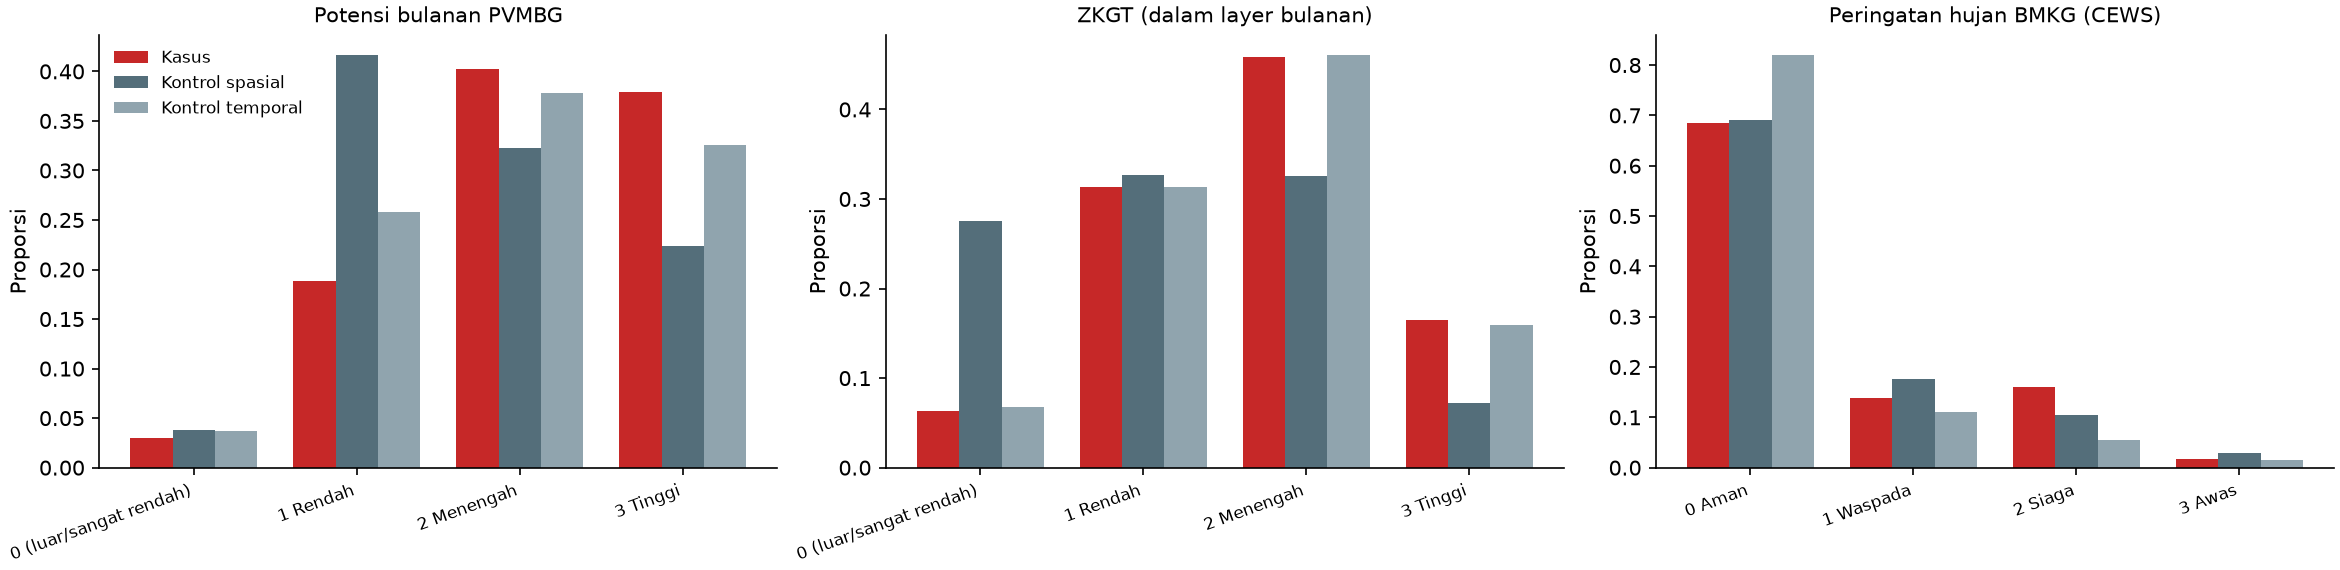
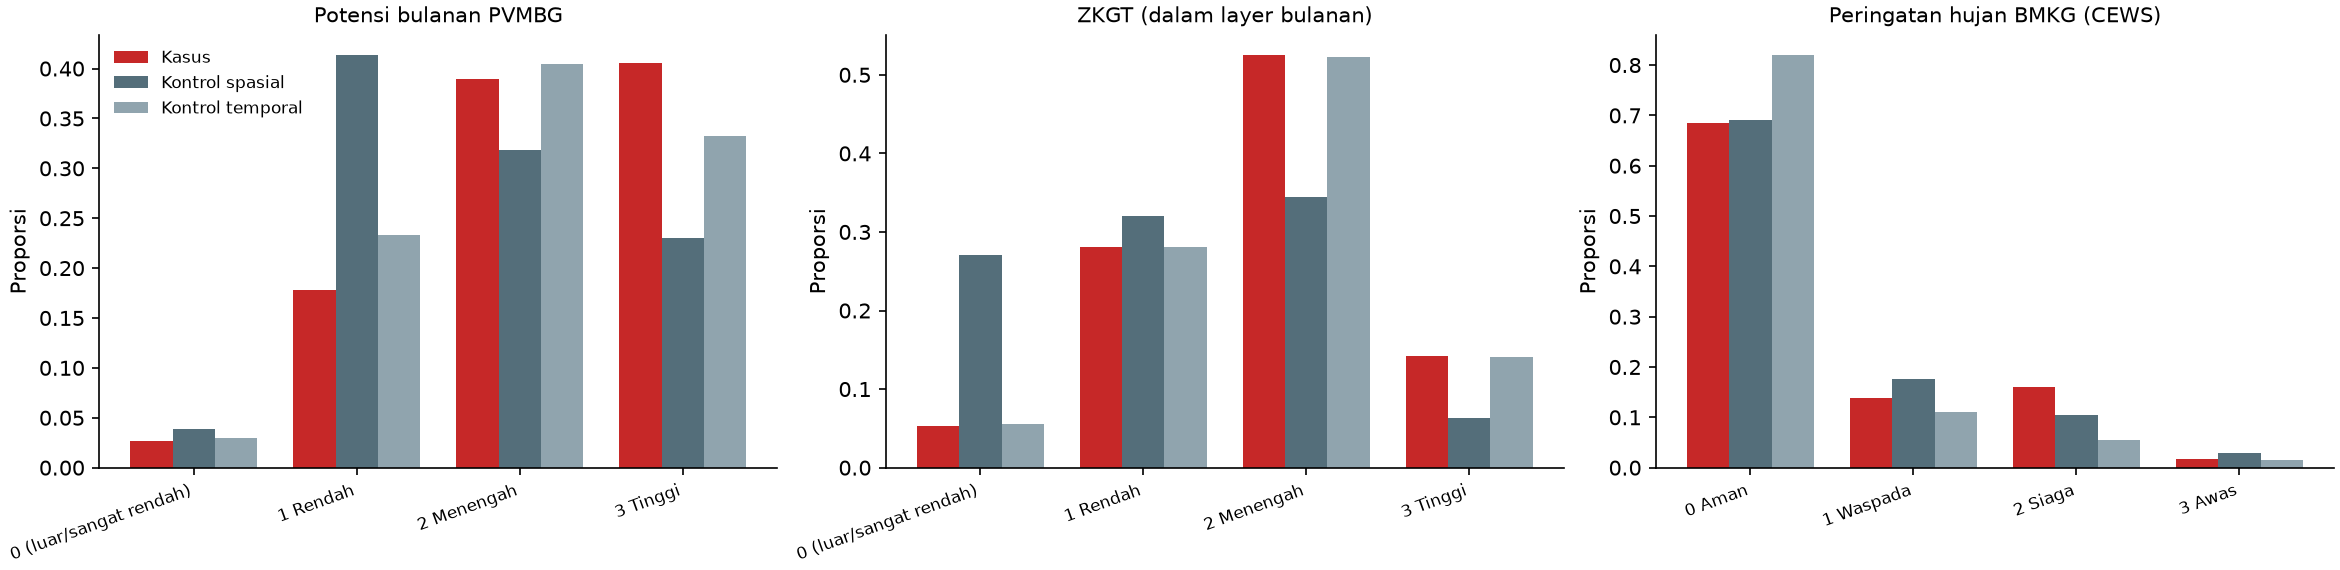
fix(research): use the containing PVMBG polygon and recompute RQ-L1
02_produk_resmi.py took the first GetFeatureInfo polygon, which changed
the potential class of 584 of 8,370 sampled points (7.0%). The sample is
rebuilt from the same cache with the point-in-polygon reader; points,
months, and seeds are unchanged. Main results: PVMBG spatial AUC 0.631
to 0.642, temporal 0.560 to 0.565, ZKGT spatial 0.653 to 0.664, L1c
-0.023 to -0.021. CEWS and EDuMaP are unchanged and no conclusion
changes. The protocol records the correction and both sets of values
as an implementation note.

diff --git a/research/02_produk_resmi.py b/research/02_produk_resmi.py
@@ -26,6 +26,7 @@ from datetime import date
 import pandas as pd
 
 from sigap_riset import cews
+from sigap_riset.geo import contains_point
 from sigap_riset.http import Client
 from sigap_riset.paths import DATA
 from sigap_riset.waktu import dasarian, dasarian_index, month_index
@@ -86,19 +87,29 @@ def is_feature_info(text: str) -> bool:
     return text.lstrip().startswith('{') or BROKEN_LAYER in text
 
 
-def parse_feature_info(text: str | None) -> dict | None:
+def parse_feature_info(text: str | None, lat: float | None = None, lon: float | None = None) -> dict | None:
     """Atribut poligon di titik; None bila layer bulan itu tidak ada (404) atau
-    rusak (layer 2025-12 tidak punya kolom zona_perki, jadi style-nya ditolak)."""
+    rusak (layer 2025-12 tidak punya kolom zona_perki, jadi style-nya ditolak).
+
+    GetFeatureInfo memeriksa piksel tengah beserta toleransi beberapa piksel, jadi
+    titik di dekat batas zona mengembalikan 2–3 poligon dalam urutan acak. Yang
+    dipakai adalah poligon yang geometrinya memuat titik (lat, lon); poligon
+    pertama hanya dipakai bila tidak ada yang memuat titik. Versi sebelum 1 Okt
+    2026 selalu memakai poligon pertama (PROTOKOL.md, catatan penerapan 1 Okt 2026)."""
     if text is None or BROKEN_LAYER in text:
         return None
     features = json.loads(text).get('features') or []
-    props = features[0]['properties'] if features else {}
-    return {'ada_poligon': bool(features), 'potensi': props.get('zona_perki'), 'zkgt': props.get('unsur')}
+    feature = features[0] if features else None
+    if lat is not None and lon is not None:
+        feature = next((f for f in features if contains_point(f.get('geometry'), lat, lon)), feature)
+    props = feature['properties'] if feature else {}
+    return {'ada_poligon': bool(features), 'potensi': props.get('zona_perki'), 'zkgt': props.get('unsur'), 'n_poligon': len(features)}
 
 
 def read_pvmbg(client: Client, year: int, month: int, lat: float, lon: float) -> dict | None:
-    url = feature_info_url(year, month, round(lat, 5), round(lon, 5))
-    return parse_feature_info(client.text(url, valid=is_feature_info))
+    lat, lon = round(lat, 5), round(lon, 5)
+    url = feature_info_url(year, month, lat, lon)
+    return parse_feature_info(client.text(url, valid=is_feature_info), lat, lon)
 
 
 def layer_status(client: Client) -> dict[tuple[int, int], str]:
@@ -144,7 +155,7 @@ def sample_pvmbg(cases: pd.DataFrame) -> pd.DataFrame:
     results = []
     started = time.monotonic()
     for i, row in enumerate(plan.itertuples(), 1):
-        results.append(read_pvmbg(client, row.tahun, row.bulan, row.lat, row.lon) or {'ada_poligon': False, 'potensi': None, 'zkgt': None})
+        results.append(read_pvmbg(client, row.tahun, row.bulan, row.lat, row.lon) or {'ada_poligon': False, 'potensi': None, 'zkgt': None, 'n_poligon': 0})
         if i % 250 == 0:
             rate = client.network_requests / max(time.monotonic() - started, 1)
             remaining = (len(plan) - i) / rate / 60 if rate else 0

diff --git a/research/tests/test_produk_resmi.py b/research/tests/test_produk_resmi.py
@@ -27,17 +27,34 @@ BROKEN_LAYER_REPLY = (
 OTHER_ERROR = '<?xml version="1.0"?><ServiceExceptionReport><ServiceException>java.io.IOException</ServiceException></ServiceExceptionReport>'
 
 
-def feature_collection(*props: dict) -> str:
-    return json.dumps({'type': 'FeatureCollection', 'features': [{'type': 'Feature', 'properties': p} for p in props]})
+def feature_collection(*props: dict, geometries: list | None = None) -> str:
+    geometries = geometries or [None] * len(props)
+    return json.dumps({'type': 'FeatureCollection',
+                       'features': [{'type': 'Feature', 'properties': p, 'geometry': g} for p, g in zip(props, geometries)]})
+
+
+def square(west: float, south: float, east: float, north: float) -> dict:
+    return {'type': 'MultiPolygon', 'coordinates': [[[[west, south], [east, south], [east, north], [west, north], [west, south]]]]}
 
 
 class TestFeatureInfo(unittest.TestCase):
-    def test_poligon_pertama_dipakai(self):
+    def test_tanpa_geometri_poligon_pertama_dipakai(self):
         text = feature_collection({'zona_perki': 'Tinggi', 'unsur': 'Menengah'}, {'zona_perki': 'Menengah', 'unsur': 'Rendah'})
-        self.assertEqual(produk.parse_feature_info(text), {'ada_poligon': True, 'potensi': 'Tinggi', 'zkgt': 'Menengah'})
+        self.assertEqual(produk.parse_feature_info(text, -7.3, 109.6),
+                         {'ada_poligon': True, 'potensi': 'Tinggi', 'zkgt': 'Menengah', 'n_poligon': 2})
+
+    def test_poligon_yang_memuat_titik_dipakai(self):
+        # Dua zona bersebelahan; titik ada di zona kedua (kasus batas yang dulu salah dibaca).
+        text = feature_collection({'zona_perki': 'Tinggi', 'unsur': 'Tinggi'}, {'zona_perki': 'Menengah', 'unsur': 'Menengah'},
+                                  geometries=[square(109.6555, -7.356, 109.66, -7.35), square(109.65, -7.356, 109.6555, -7.35)])
+        self.assertEqual(produk.parse_feature_info(text, -7.353, 109.655)['potensi'], 'Menengah')
+        self.assertEqual(produk.parse_feature_info(text, -7.353, 109.657)['potensi'], 'Tinggi')
+        # Tanpa titik: poligon pertama, seperti pembaca versi lama.
+        self.assertEqual(produk.parse_feature_info(text)['potensi'], 'Tinggi')
 
     def test_di_luar_poligon(self):
-        self.assertEqual(produk.parse_feature_info(feature_collection()), {'ada_poligon': False, 'potensi': None, 'zkgt': None})
+        self.assertEqual(produk.parse_feature_info(feature_collection(), -7.3, 109.6),
+                         {'ada_poligon': False, 'potensi': None, 'zkgt': None, 'n_poligon': 0})
 
     def test_layer_tidak_ada_atau_rusak(self):
         self.assertIsNone(produk.parse_feature_info(None))

diff --git a/research/tests/test_geo.py b/research/tests/test_geo.py
@@ -1,0 +1,37 @@
+"""Uji titik di dalam poligon (dipakai untuk memilih poligon GetFeatureInfo PVMBG).
+
+Jalankan dari root repo: research/.venv/Scripts/python -m unittest discover research/tests
+"""
+
+import sys
+import unittest
+from pathlib import Path
+
+sys.path.insert(0, str(Path(__file__).resolve().parent.parent))
+
+from sigap_riset.geo import contains_point  # noqa: E402
+
+
+def ring(west, south, east, north):
+    return [[west, south], [east, south], [east, north], [west, north], [west, south]]
+
+
+class TestContainsPoint(unittest.TestCase):
+    def test_lubang_dianggap_di_luar(self):
+        donut = {'type': 'Polygon', 'coordinates': [ring(0, 0, 10, 10), ring(4, 4, 6, 6)]}
+        self.assertTrue(contains_point(donut, 2, 2))
+        self.assertFalse(contains_point(donut, 5, 5))
+        self.assertFalse(contains_point(donut, 5, 11))
+
+    def test_multipoligon(self):
+        islands = {'type': 'MultiPolygon', 'coordinates': [[ring(0, 0, 1, 1)], [ring(5, 5, 6, 6)]]}
+        self.assertTrue(contains_point(islands, 5.5, 5.5))
+        self.assertFalse(contains_point(islands, 3, 3))
+
+    def test_tanpa_geometri(self):
+        self.assertFalse(contains_point(None, 0, 0))
+        self.assertFalse(contains_point({'type': 'Point', 'coordinates': [0, 0]}, 0, 0))
+
+
+if __name__ == '__main__':
+    unittest.main()

diff --git a/research/sigap_riset/geo.py b/research/sigap_riset/geo.py
@@ -8,3 +8,31 @@ def haversine_km(lat1, lon1, lat2, lon2):
     lat1, lon1, lat2, lon2 = map(np.radians, (lat1, lon1, lat2, lon2))
     a = np.sin((lat2 - lat1) / 2) ** 2 + np.cos(lat1) * np.cos(lat2) * np.sin((lon2 - lon1) / 2) ** 2
     return 2 * EARTH_RADIUS_KM * np.arcsin(np.sqrt(a))
+
+
+def contains_point(geometry: dict | None, lat: float, lon: float) -> bool:
+    """Titik di dalam Polygon/MultiPolygon GeoJSON (koordinat [lon, lat]).
+
+    Aturan genap-ganjil dihitung atas semua ring satu poligon, jadi titik di dalam
+    lubang dianggap di luar. Sama dengan containsPoint di recorder/src/lib/geo.js."""
+    if not geometry:
+        return False
+    if geometry.get('type') == 'MultiPolygon':
+        polygons = geometry['coordinates']
+    elif geometry.get('type') == 'Polygon':
+        polygons = [geometry['coordinates']]
+    else:
+        return False
+    for rings in polygons:
+        inside = False
+        for ring in rings:
+            j = len(ring) - 1
+            for i in range(len(ring)):
+                xi, yi = ring[i][0], ring[i][1]
+                xj, yj = ring[j][0], ring[j][1]
+                if (yi > lat) != (yj > lat) and lon < (xj - xi) * (lat - yi) / (yj - yi) + xi:
+                    inside = not inside
+                j = i
+        if inside:
+            return True
+    return False

diff --git a/research/results/rq_l1_ringkasan.md b/research/results/rq_l1_ringkasan.md
@@ -1,6 +1,6 @@
 # Hasil RQ-L1 — skill produk peringatan longsor resmi
 
-Dihitung 2026-09-27 17:47 UTC dari cache data (diambil 2026-09-27 s.d. 2026-09-27). Protokol: `research/PROTOKOL.md`.
+Dihitung 2026-10-01 00:57 UTC dari cache data (diambil 2026-09-27 s.d. 2026-09-27). Protokol: `research/PROTOKOL.md`.
 Bootstrap klaster 2000 kali. Layer PVMBG yang tidak ada/rusak: 2023-04, 2023-09, 2023-10, 2023-11, 2024-08, 2025-11, 2025-12.
 Bulan bercakupan tidak lengkap (sensitivitas): 2022-12 (median cakupan 1.00).
 Presisi tanggal kasus PVMBG: {'hari': 280, 'bulan': 23, 'tahun': 7}. Analisis utama PVMBG memakai presisi hari dan bulan; CEWS hanya presisi hari (PROTOKOL.md v1.1).
@@ -8,34 +8,34 @@ Dasarian CEWS tanpa produk di sumber BMKG (dikeluarkan): 2022-09 das 2, 2022-09 
 
 | Produk | Analisis | Kontrol | n kasus | AUC berpasangan [CI 95%] | AUC gabungan | POD≥2 | POFD≥2 | TSS≥2 [CI 95%] | POD=3 | POFD=3 |
 |---|---|---|---|---|---|---|---|---|---|---|
-| Potensi bulanan PVMBG | utama | spasial (provinsi) | 303 | 0.631 [0.603, 0.659] | 0.631 | 0.78 | 0.55 | 0.236 [0.188, 0.283] | 0.38 | 0.22 |
-| Potensi bulanan PVMBG | utama | temporal | 303 | 0.560 [0.534, 0.587] | 0.545 | 0.78 | 0.70 | 0.078 [0.043, 0.117] | 0.38 | 0.33 |
-| ZKGT (dalam layer bulanan) | utama | spasial (provinsi) | 303 | 0.653 [0.627, 0.682] | 0.656 | 0.62 | 0.40 | 0.226 [0.169, 0.283] | 0.17 | 0.07 |
-| ZKGT (dalam layer bulanan) | utama | temporal | 303 | 0.501 [0.486, 0.515] | 0.505 | 0.62 | 0.62 | 0.004 [-0.017, 0.024] | 0.17 | 0.16 |
-| Potensi − ZKGT (L1c) | utama | spasial (provinsi) | 303 | Δ -0.023 [-0.036, -0.009] | | | | | | |
-| Potensi bulanan PVMBG | sens: tipe diketahui | spasial (provinsi) | 141 | 0.678 [0.638, 0.716] | 0.677 | 0.84 | 0.54 | 0.307 [0.247, 0.362] | 0.50 | 0.25 |
-| Potensi bulanan PVMBG | sens: tipe diketahui | temporal | 141 | 0.606 [0.570, 0.642] | 0.579 | 0.84 | 0.74 | 0.103 [0.052, 0.157] | 0.50 | 0.37 |
-| Potensi bulanan PVMBG | sens: kontrol kab/kota | spasial (kab/kota) | 303 | 0.566 [0.539, 0.594] | 0.564 | 0.78 | 0.66 | 0.118 [0.074, 0.160] | 0.38 | 0.31 |
-| Potensi − ZKGT (L1c) | sens: kontrol kab/kota | spasial (kab/kota) | 303 | Δ -0.021 [-0.034, -0.009] | | | | | | |
-| Potensi bulanan PVMBG | sens: sumber magma-tanggapan | spasial (provinsi) | 27 | 0.583 [0.496, 0.670] | 0.557 | 0.59 | 0.46 | 0.133 [-0.026, 0.289] | 0.26 | 0.19 |
-| Potensi bulanan PVMBG | sens: sumber magma-tanggapan | temporal | 27 | 0.491 [0.377, 0.605] | 0.478 | 0.59 | 0.63 | -0.037 [-0.185, 0.105] | 0.26 | 0.22 |
-| Potensi bulanan PVMBG | sens: sumber magma-tanggapan+pvmbg-lapangan | spasial (provinsi) | 3 | 0.317 [0.150, 0.450] | 0.339 | 0.00 | 0.33 | -0.333 [-0.700, -0.100] | 0.00 | 0.20 |
-| Potensi bulanan PVMBG | sens: sumber magma-tanggapan+pvmbg-lapangan | temporal | 3 | 0.278 [0.000, 0.500] | 0.222 | 0.00 | 0.33 | -0.333 [-0.667, 0.000] | 0.00 | 0.06 |
-| Potensi bulanan PVMBG | sens: sumber pvmbg-lapangan | spasial (provinsi) | 273 | 0.639 [0.610, 0.669] | 0.644 | 0.81 | 0.56 | 0.252 [0.202, 0.301] | 0.40 | 0.23 |
-| Potensi bulanan PVMBG | sens: sumber pvmbg-lapangan | temporal | 273 | 0.570 [0.544, 0.598] | 0.552 | 0.81 | 0.72 | 0.093 [0.057, 0.131] | 0.40 | 0.34 |
-| Potensi bulanan PVMBG | sens: tahun 2022 | spasial (provinsi) | 149 | 0.676 [0.638, 0.712] | 0.669 | 0.85 | 0.53 | 0.312 [0.256, 0.365] | 0.48 | 0.25 |
-| Potensi bulanan PVMBG | sens: tahun 2022 | temporal | 149 | 0.597 [0.558, 0.636] | 0.572 | 0.85 | 0.75 | 0.098 [0.041, 0.151] | 0.48 | 0.36 |
-| Potensi bulanan PVMBG | sens: tahun 2023 | spasial (provinsi) | 26 | 0.615 [0.513, 0.715] | 0.605 | 0.62 | 0.45 | 0.162 [-0.015, 0.338] | 0.31 | 0.16 |
-| Potensi bulanan PVMBG | sens: tahun 2023 | temporal | 26 | 0.548 [0.468, 0.635] | 0.537 | 0.62 | 0.60 | 0.013 [-0.096, 0.128] | 0.31 | 0.22 |
-| Potensi bulanan PVMBG | sens: tahun 2024 | spasial (provinsi) | 127 | 0.585 [0.540, 0.628] | 0.590 | 0.75 | 0.58 | 0.169 [0.087, 0.248] | 0.28 | 0.21 |
-| Potensi bulanan PVMBG | sens: tahun 2024 | temporal | 127 | 0.520 [0.482, 0.556] | 0.518 | 0.75 | 0.68 | 0.070 [0.016, 0.126] | 0.28 | 0.32 |
+| Potensi bulanan PVMBG | utama | spasial (provinsi) | 303 | 0.642 [0.614, 0.670] | 0.641 | 0.80 | 0.55 | 0.247 [0.200, 0.293] | 0.41 | 0.23 |
+| Potensi bulanan PVMBG | utama | temporal | 303 | 0.565 [0.537, 0.592] | 0.546 | 0.80 | 0.74 | 0.058 [0.024, 0.093] | 0.41 | 0.33 |
+| ZKGT (dalam layer bulanan) | utama | spasial (provinsi) | 303 | 0.664 [0.636, 0.692] | 0.667 | 0.67 | 0.41 | 0.259 [0.202, 0.316] | 0.14 | 0.06 |
+| ZKGT (dalam layer bulanan) | utama | temporal | 303 | 0.500 [0.488, 0.512] | 0.502 | 0.67 | 0.66 | 0.003 [-0.013, 0.020] | 0.14 | 0.14 |
+| Potensi − ZKGT (L1c) | utama | spasial (provinsi) | 303 | Δ -0.021 [-0.034, -0.009] | | | | | | |
+| Potensi bulanan PVMBG | sens: tipe diketahui | spasial (provinsi) | 141 | 0.700 [0.663, 0.735] | 0.694 | 0.87 | 0.54 | 0.331 [0.276, 0.382] | 0.53 | 0.26 |
+| Potensi bulanan PVMBG | sens: tipe diketahui | temporal | 141 | 0.621 [0.585, 0.658] | 0.590 | 0.87 | 0.79 | 0.080 [0.033, 0.130] | 0.53 | 0.37 |
+| Potensi bulanan PVMBG | sens: kontrol kab/kota | spasial (kab/kota) | 303 | 0.574 [0.548, 0.601] | 0.572 | 0.80 | 0.67 | 0.123 [0.080, 0.164] | 0.41 | 0.31 |
+| Potensi − ZKGT (L1c) | sens: kontrol kab/kota | spasial (kab/kota) | 303 | Δ -0.021 [-0.034, -0.007] | | | | | | |
+| Potensi bulanan PVMBG | sens: sumber magma-tanggapan | spasial (provinsi) | 27 | 0.581 [0.483, 0.676] | 0.558 | 0.56 | 0.46 | 0.093 [-0.070, 0.252] | 0.33 | 0.20 |
+| Potensi bulanan PVMBG | sens: sumber magma-tanggapan | temporal | 27 | 0.497 [0.383, 0.608] | 0.479 | 0.56 | 0.65 | -0.093 [-0.222, 0.019] | 0.33 | 0.23 |
+| Potensi bulanan PVMBG | sens: sumber magma-tanggapan+pvmbg-lapangan | spasial (provinsi) | 3 | 0.317 [0.150, 0.450] | 0.339 | 0.00 | 0.33 | -0.333 [-0.700, -0.100] | 0.00 | 0.13 |
+| Potensi bulanan PVMBG | sens: sumber magma-tanggapan+pvmbg-lapangan | temporal | 3 | 0.278 [0.000, 0.500] | 0.222 | 0.00 | 0.33 | -0.333 [-0.667, 0.000] | 0.00 | 0.00 |
+| Potensi bulanan PVMBG | sens: sumber pvmbg-lapangan | spasial (provinsi) | 273 | 0.652 [0.623, 0.682] | 0.654 | 0.83 | 0.56 | 0.268 [0.220, 0.315] | 0.42 | 0.23 |
+| Potensi bulanan PVMBG | sens: sumber pvmbg-lapangan | temporal | 273 | 0.575 [0.549, 0.603] | 0.553 | 0.83 | 0.75 | 0.077 [0.040, 0.114] | 0.42 | 0.35 |
+| Potensi bulanan PVMBG | sens: tahun 2022 | spasial (provinsi) | 149 | 0.697 [0.661, 0.732] | 0.685 | 0.87 | 0.54 | 0.327 [0.271, 0.378] | 0.52 | 0.26 |
+| Potensi bulanan PVMBG | sens: tahun 2022 | temporal | 149 | 0.611 [0.571, 0.651] | 0.583 | 0.87 | 0.80 | 0.068 [0.017, 0.117] | 0.52 | 0.36 |
+| Potensi bulanan PVMBG | sens: tahun 2023 | spasial (provinsi) | 26 | 0.608 [0.506, 0.702] | 0.599 | 0.62 | 0.46 | 0.154 [-0.038, 0.323] | 0.31 | 0.17 |
+| Potensi bulanan PVMBG | sens: tahun 2023 | temporal | 26 | 0.548 [0.468, 0.628] | 0.533 | 0.62 | 0.62 | 0.000 [-0.103, 0.103] | 0.31 | 0.22 |
+| Potensi bulanan PVMBG | sens: tahun 2024 | spasial (provinsi) | 127 | 0.589 [0.543, 0.630] | 0.595 | 0.76 | 0.58 | 0.180 [0.101, 0.257] | 0.29 | 0.21 |
+| Potensi bulanan PVMBG | sens: tahun 2024 | temporal | 127 | 0.518 [0.480, 0.554] | 0.516 | 0.76 | 0.69 | 0.064 [0.012, 0.118] | 0.29 | 0.32 |
 | Potensi bulanan PVMBG | sens: tahun 2025 | spasial (provinsi) | 1 | 0.150 [–, –] | 0.150 | 0.00 | 0.70 | -0.700 [–, –] | 0.00 | 0.00 |
-| Potensi bulanan PVMBG | sens: tahun 2025 | temporal | 1 | 0.333 [–, –] | 0.333 | 0.00 | 0.33 | -0.333 [–, –] | 0.00 | 0.00 |
-| Potensi bulanan PVMBG | sens: tanpa bulan tak lengkap | spasial (provinsi) | 292 | 0.637 [0.609, 0.665] | 0.641 | 0.80 | 0.56 | 0.245 [0.198, 0.291] | 0.39 | 0.23 |
-| Potensi bulanan PVMBG | sens: tanpa bulan tak lengkap | temporal | 292 | 0.567 [0.541, 0.593] | 0.548 | 0.80 | 0.72 | 0.081 [0.046, 0.117] | 0.39 | 0.34 |
-| Potensi bulanan PVMBG | sens: semua presisi tanggal | spasial (provinsi) | 310 | 0.633 [0.604, 0.661] | 0.633 | 0.78 | 0.54 | 0.238 [0.190, 0.284] | 0.38 | 0.22 |
-| Potensi bulanan PVMBG | sens: semua presisi tanggal | temporal | 310 | 0.556 [0.530, 0.583] | 0.542 | 0.78 | 0.71 | 0.075 [0.040, 0.111] | 0.38 | 0.33 |
-| Potensi − ZKGT (L1c) | sens: semua presisi tanggal | spasial (provinsi) | 310 | Δ -0.022 [-0.036, -0.009] | | | | | | |
+| Potensi bulanan PVMBG | sens: tahun 2025 | temporal | 1 | 0.083 [–, –] | 0.083 | 0.00 | 0.83 | -0.833 [–, –] | 0.00 | 0.50 |
+| Potensi bulanan PVMBG | sens: tanpa bulan tak lengkap | spasial (provinsi) | 292 | 0.647 [0.619, 0.676] | 0.650 | 0.82 | 0.56 | 0.256 [0.212, 0.302] | 0.41 | 0.23 |
+| Potensi bulanan PVMBG | sens: tanpa bulan tak lengkap | temporal | 292 | 0.571 [0.546, 0.597] | 0.549 | 0.82 | 0.75 | 0.063 [0.031, 0.097] | 0.41 | 0.34 |
+| Potensi bulanan PVMBG | sens: semua presisi tanggal | spasial (provinsi) | 310 | 0.644 [0.616, 0.671] | 0.643 | 0.79 | 0.54 | 0.249 [0.201, 0.293] | 0.41 | 0.23 |
+| Potensi bulanan PVMBG | sens: semua presisi tanggal | temporal | 310 | 0.561 [0.534, 0.588] | 0.544 | 0.79 | 0.74 | 0.055 [0.021, 0.091] | 0.41 | 0.34 |
+| Potensi − ZKGT (L1c) | sens: semua presisi tanggal | spasial (provinsi) | 310 | Δ -0.021 [-0.034, -0.008] | | | | | | |
 | Peringatan hujan BMKG (CEWS) | utama | spasial (provinsi) | 211 | 0.520 [0.496, 0.543] | 0.517 | 0.19 | 0.13 | 0.057 [0.022, 0.090] | 0.02 | 0.03 |
 | Peringatan hujan BMKG (CEWS) | utama | temporal | 225 | 0.571 [0.538, 0.603] | 0.572 | 0.18 | 0.07 | 0.108 [0.057, 0.161] | 0.02 | 0.01 |
 | Peringatan hujan BMKG (CEWS) | sens: semua presisi tanggal | spasial (provinsi) | 234 | 0.529 [0.507, 0.554] | 0.525 | 0.19 | 0.12 | 0.069 [0.036, 0.104] | 0.02 | 0.03 |

diff --git a/research/PROTOKOL.md b/research/PROTOKOL.md
@@ -119,3 +119,15 @@ Protokol RQ-L2 dan RQ-L3 (ambang hidrometeorologi dan model SIGAP-L) ditulis ter
   - Analisis tambahan: alert = Waspada ke atas, dan hanya kab/kota yang punya ≥ 1 kejadian tercatat.
   - Implementasinya diuji dengan contoh Tabel 7–8 Calvello & Piciullo (2016): ke-14 indikator cocok sampai dua desimal.
 
+**Catatan penerapan (1 Okt 2026): koreksi pembacaan poligon PVMBG.** Kesalahan ini ditemukan saat audit data setelah hasil pertama dilaporkan. Definisi, metrik, dan kriteria tidak berubah. Yang diperbaiki adalah penerapan "kelas produk di titik" (bagian 2 dan 5).
+- **Masalah.** GetFeatureInfo memeriksa piksel tengah (bbox ±0,01°, 101 piksel, ±22 m per piksel) beserta toleransi beberapa piksel. Titik di dekat batas zona mendapat 2–4 poligon dalam urutan acak: 1.432 dari 8.370 baris sampel (17%). `02_produk_resmi.py` memakai poligon pertama, yang ternyata sering bukan poligon yang memuat titik.
+- **Perbaikan.** Yang dipakai kini poligon yang geometrinya memuat titik (aturan genap-ganjil, `sigap_riset/geo.py`). Poligon pertama hanya dipakai bila tidak ada poligon yang memuat titik. Sampel dibangun ulang dari cache yang sama tanpa request jaringan; titik, bulan, dan seed identik.
+- **Dampak.** Skor potensi berubah pada 584 dari 8.370 baris (7,0%; 25 dari 310 kasus), dan skor ZKGT pada 749 baris. Hasil utama:
+  - Potensi bulanan, spasial: 0,631 [0,603; 0,659] menjadi 0,642 [0,614; 0,670].
+  - Potensi bulanan, temporal: 0,560 [0,534; 0,587] menjadi 0,565 [0,537; 0,592].
+  - ZKGT, spasial: 0,653 menjadi 0,664; ZKGT, temporal: 0,501 menjadi 0,500.
+  - L1c: −0,023 [−0,036; −0,009] menjadi −0,021 [−0,034; −0,009].
+  - CEWS dan EDuMaP CEWS tidak terpengaruh. Kesimpulan menurut kriteria bagian 5 tidak berubah. Hasil lama tersimpan di riwayat git (commit 07cce31, versi terakhir sebelum koreksi).
+- **Label lain di layer bulanan.** "Berpotensi Banjir Bandang/Aliran Bahan Rombakan", "Danau", "Alur Aliran Bahan Rombakan", dan "Danau/Situ" mendapat skor 0 sesuai bagian 5. Label ini hanya muncul di 57 titik kontrol spasial dan tidak di kasus mana pun.
+- **Pembaca yang sama di tempat lain.** Perekam arsip (`pvmbg-prakiraan`) dan cek risiko SIGAP memakai pembaca yang sama dan ikut diperbaiki. Bulan arsip yang direkam dengan pembaca lama (2026-09 dan 2026-10) direkam ulang dengan tanda `pembaca: 2`, tanpa menghapus baris lama.
+
